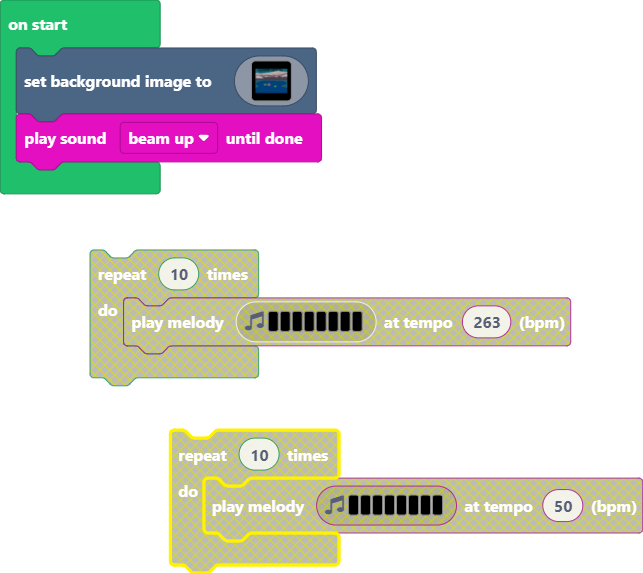
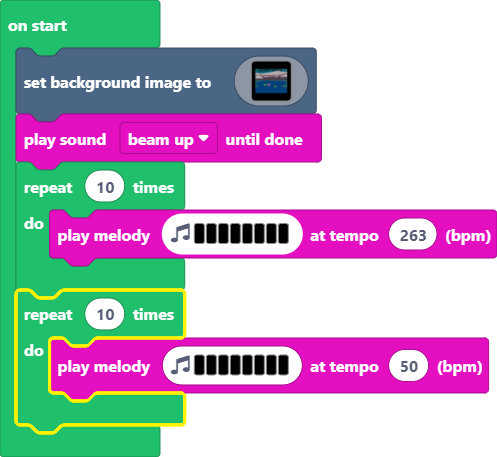
Fixed placing of music blocks so they can play.

diff --git a/main.ts b/main.ts
@@ -1,2 +1,8 @@
 scene.setBackgroundImage(assets.image`Backround Goodbye Krystal`)
 music.beamUp.playUntilDone()
+for (let index = 0; index < 10; index++) {
+    music.playMelody("F D B E G B G D ", 263)
+}
+for (let index = 0; index < 10; index++) {
+    music.playMelody("C - E - C - E - ", 50)
+}
